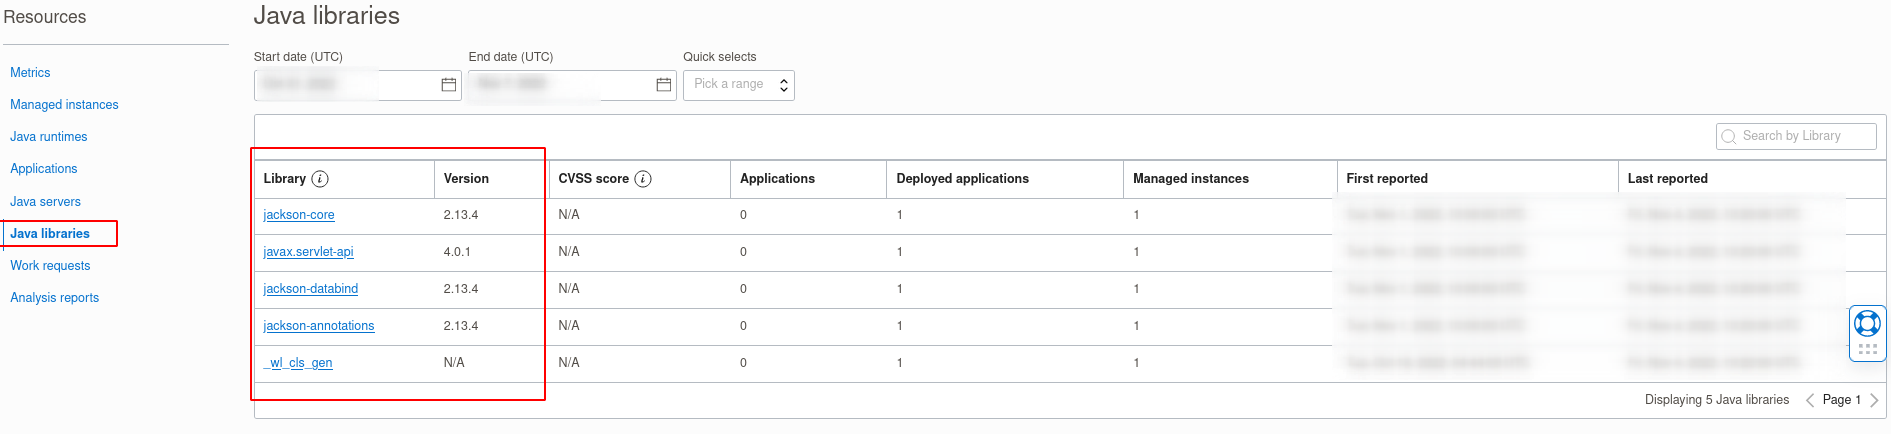
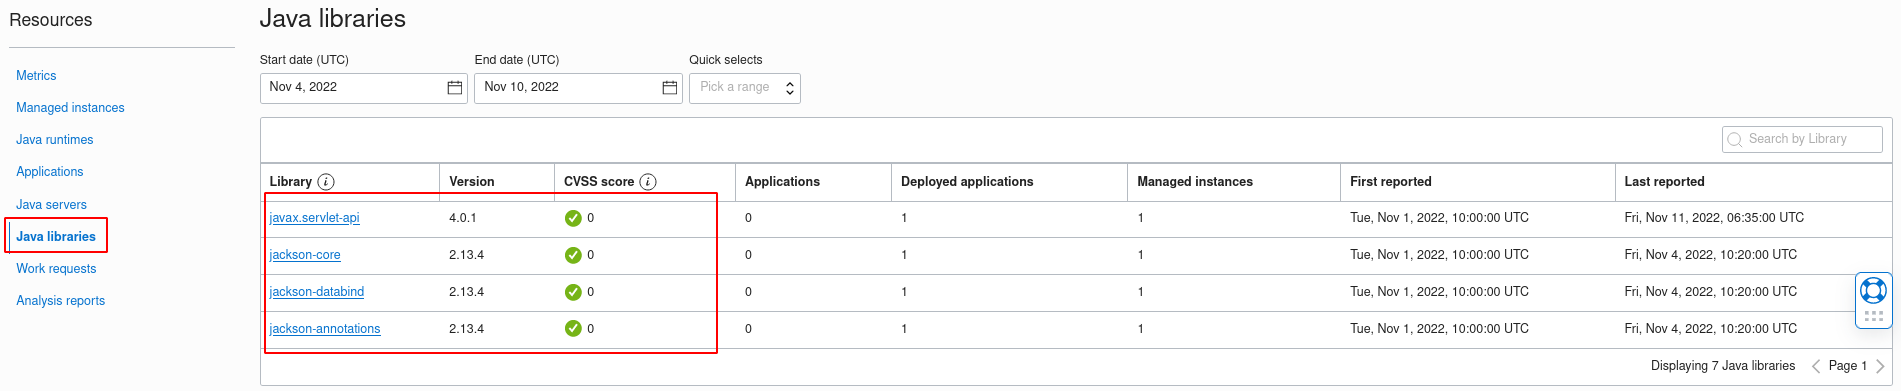
Content Updated for Java Servers and Libraries.

diff --git a/java-management-lifecycle-management/track-java-servers/track-java-servers.md b/java-management-lifecycle-management/track-java-servers/track-java-servers.md
@@ -2,7 +2,7 @@
 
 ## Introduction
 
-Advanced usage tracking allows you to monitor the usage of Java servers in your fleet which includes the applications deployed on the Java server, and the managed server and managed instances on which an application is deployed. 
+Advanced usage tracking allows you to monitor the usage of Java servers in your fleet which includes the applications deployed on the Java server, the managed server and managed instances on which an application is deployed. 
 
 This lab walks you through the steps to track Java servers in a managed instance.
 
@@ -12,26 +12,26 @@ Estimated Time: 40 minutes
 
 In this lab, you will:
 
-* Install WebLogic Java Server in a managed instance.
-* Deploy a sample Java Web Application in WebLogic Server.
-* Scan running Java Server with deployed Java Application in a managed instance.
-* Verify Java Server scanning.
+* Install WebLogic server in a managed instance.
+* Deploy a sample Java Web Application in WebLogic server.
+* Scan running Java server with deployed Java Web Application in a managed instance.
+* Verify Java server scanning result.
 
 ### Prerequisites
 
 * You have signed up for an account with Oracle Cloud Infrastructure and have received your sign-in credentials.
 * You are using an Oracle Linux image on your Managed Instance for this workshop.
 * Access to the cloud environment and resources configured in the previous labs.
-* Familiarity with configuration of WebLogic Server.
+* Familiarity with configuration of WebLogic server.
 
 ## Task 1: Ensure WebLogic Server is installed and configured. 
 
-1. If you do not have WebLogic server installed and configured in the managed instance, please follow steps:
+1. If you do not have WebLogic server installed and configured in your managed instance, please refer to following steps:
 * [Download WebLogic Server](https://www.oracle.com/middleware/technologies/weblogic-server-installers-downloads.html)
 * [Install WebLogic Server](https://docs.oracle.com/en/middleware/standalone/weblogic-server/14.1.1.0/wlsig/installing-oracle-weblogic-server-and-coherence-software.html#GUID-E4241C14-42D3-4053-8F83-C748E059607A)
 * [Create and Configure WebLogic Domain](https://docs.oracle.com/en/middleware/standalone/weblogic-server/14.1.1.0/wlsig/creating-and-configuring-weblogic-domain.html#GUID-4AECC00D-782D-4E77-85DF-F74DD61391B4)
 
-2. Take note of the **path of the created domain** which will be used for deployment of Java Web Application in Task 3.
+2. Take note of the **path of the created domain**  for installed WebLogic server which will be used for deployment of Java Web Application in following **Task 3**.
 
 ## Task 2: Create Sample Java Web Application
 
@@ -44,17 +44,17 @@ In this lab, you will:
 2. Verify the installation by checking the Maven version.
 ```
     <copy>
-    mvn –version
+    mvn –v
     </copy>
 ```  
 3. Create sample Java Web Application by running.
-* If you are not already in the home directory of your compute instance, navigate there by running this.
+* If you are not already in the home directory of your compute instance, navigate there by running.
 ```
     <copy>
     cd ~
     </copy>
 ```
-* Create sample Java Web Application by running.
+* Create sample Java Web Application named **webSampleApp** by running.
 ```
     <copy>
     mvn archetype:generate -DgroupId=com.sample -DartifactId=webSampleApp -DarchetypeArtifactId=maven-archetype-webapp -DinteractiveMode=false
@@ -111,13 +111,15 @@ In this lab, you will:
 	</project>
 </copy>
 ```
+* To save the file, type **CTRL+x**. Before exiting, nano will ask you if you wish to save the file: Type **y** and **Enter** to save and exit.
+
 * Edit web.xml file by running.
 ```
     <copy>
     nano src/main/webapp/WEB-INF/web.xml 
     </copy>
 ```
-* Replace the content of web.xml as following.
+* Replace the content of web.xml as following and save the file.
 ```xml
 <copy>
 	<?xml version="1.0" encoding="ISO-8859-1"?>
@@ -138,14 +140,14 @@ In this lab, you will:
 	</web-app>
 </copy>
 ```
+
 4. Create sample Java servlet class by running.
-* Create sample Java servlet class by running.
 ```
     <copy>
     sudo mkdir -p ./src/main/java/com/sample && sudo nano ./src/main/java/com/sample/GreetingServlet.java
     </copy>
 ```
-* Paste the content as following.
+* Paste the following text in the Java file and save the file.
 ```java
   <copy>
     package com.sample;
@@ -200,28 +202,29 @@ In this lab, you will:
 ![image of build Java Web Application](images/start-weblogic-server.png)
 
 ## Task 4: Initialize a Java server scan.
-Now we have running WebLogic server with deployed sample Java Web Application on the managed instance, let's initialize the Java server scan.
+
+Now we have the running WebLogic server with deployed sample Java Web Application on the managed instance, let's initialize a Java server scan.
 1. In **Java Management** page, click **Scan for Java servers**.
 ![image of scan java servers](images/scan-java-servers.png)
 
 2. In the same **Java Management** page, under **Resource**,select **Work Request**.You should see the Scan for Java servers Work Request you submitted in step 1.
 ![image of work request for java servers scan](images/work-request-of-servers-scan-in-progress.png)
 
-3. If your request was successful, you should see that the Status of the request is marked as Succeeded and Completed without errors.  
-It may take around 10 minutes to be completed.
+3. If your request is successful, you should see that the Status of the request is marked as Succeeded and Completed without errors.  
+It will take around 10 minutes for the request to be completed.
 ![image of detected java servers](images/work-request-of-servers-scan-completed.png)
 
 4. In the same **Java Management** page, under **Resource**, select **Java servers** you should be able to see detected WebLogic server that you installed in the managed instance.
 ![image of work request for java servers scan](images/java-server-detected.png)
 
-5. Click **WebLogic Server** under **Java servers**, You should be able to see the WebSampleApp that we deployed in the previous step.
+5. Click **WebLogic Server** under **Java servers**, You should be able to see the WebSampleApp that we deployed in the previous step with its type indicated.
 ![image of detail of deployed java web application](images/sample-java-web-application-detected.png)
 
-## Task 5: (Optional)Try your own to track other Java servers with deployed Java WEb Application.
-* In the previous tasks . we have showed how to track a running java server with deployed web application using WebLogic Java server as an example. Not only WebLogic Java servers, tracking of Tomcat and JBoss Java servers are also supported for both standalone and cluster mode.
+## Task 5: (Optional)Try your own to track other Java servers with deployed Applications.
+* In the previous tasks . we have showed the process of how to track a running Java server with deployed Web Application using WebLogic server as an example. Not only WebLogic Java servers, tracking of Tomcat and JBoss servers are also supported for both standalone and cluster mode.
 ![image of detail of deployed java web application](images/java-servers-other.png)
 ![image of detail of deployed java web application](images/java-web-applications-other.png)
-* Setting up of Java application servers including configuring cluster mode is beyond the scope this live labs. You may wish to deploy your own Java Applications using above mentioned Java servers and scan it using our features.
+* Setting up of Java application servers including configuring cluster mode is beyond the scope of this workshop. You may wish to deploy your own Java Applications using above mentioned Java servers on your own and scan it using our features.
 
 
  You may now **proceed to the next lab.**
@@ -235,4 +238,4 @@ It may take around 10 minutes to be completed.
 ## Acknowledgements
 
 * **Author** - Youcheng Li, Java Management Service
-* **Last Updated By** - Youcheng Li, September 2022
+* **Last Updated By** - Youcheng Li, November 2022

diff --git a/java-management-lifecycle-management/detect-java-libraries/detect-java-libraries.md b/java-management-lifecycle-management/detect-java-libraries/detect-java-libraries.md
@@ -2,7 +2,7 @@
 
 ## Introduction
 
-Advanced usage tracking allows you monitor the usage of **Java libraries** in your fleet.
+Advanced usage tracking allows you view the list of **Java libraries** associated with the deployed Java Applications in the selected fleet.
 This lab walks you through the steps to detect **Java libraries** in your fleet.
 
 Estimated Time: 30 minutes
@@ -11,9 +11,8 @@ Estimated Time: 30 minutes
 
 In this lab, you will:
 
-* Detect Java libraries for deployed Java Web Application on a running Java Server.
-* Detect Java libraries for deployed Java SE application.
-* Verify Java libraries detection.
+* Detect Java libraries for deployed Java Web Application on a running Java Server and Java SE application on a managed instance.
+* Verify Java libraries detection result.
 
 
 ### Prerequisites
@@ -24,22 +23,34 @@ In this lab, you will:
 
 ## Task 1: Detect Java libraries for deployed Java Web Application.
 
-1. In lab 4, we have set up the running WebLogic server with sample java web application. Please ensure that WebLogic server is still running.
-* You may want to refer to Lab 4, Task 3 to restart your server if necessary.
+1. In **lab 4**, we have set up the running WebLogic server with sample Java Web Application. Please ensure that WebLogic server is still running.
+* You may refer to **Lab 4 - Task 3** to restart the WebLogic server if necessary.
 
 2. In **Java Management** page, click **Scan for Java libraries**.
  ![image of fleet details page](images/scan-java-libraries.png)
 
-3. In the same **Java Management** page, under **Resource**,select **Work Request**.You should see the Scan for Java libraries Work Request you submitted in step 2.  
-If your request was successful, you should see that the Status of the request is marked as Succeeded and Completed without errors.It may take around 10 minutes to be completed.
+3. In the same **Java Management** page, under **Resource**,select **Work Request**.You should see the Scan for Java libraries Work Request you submitted in step 2. 
 
-  ![image of install java runtime](images/work-request-of-libraries-scan-completed.png.png)
+![image of install java runtime](images/work-request-of-libraries-scan-in-progress.png)
 
-4. In the same **Java Management** page, under **Resource**, select **Java libraries** you should be able to see detected Java libraries that we included in the pom.xml file for the deployed sample Java Web Application.
+4. If your request is successful, you should see that the Status of the request is marked as Succeeded and Completed without errors. It will take around 10 minutes for the request to be completed.
+
+  ![image of install java runtime](images/work-request-of-libraries-scan-completed.png)
+
+5. In the same **Java Management** page, under **Resource**, select **Java libraries** you should see detected Java libraries that we included in the pom.xml file for the deployed sample Java Web Application in lab 4.
 
 ![image of install java runtime](images/java-libraries-web.png)
 
-5. You can stop the WebLogic server now by pressing **ctrl + c**.
+* The Common Vulnerability Scoring System (CVSS) score is the indication of the security vulnerability associated with the Java library which are provided by **National Vulnerability Database**. The score varies over time when we initialize the Java libraries scan and there might be new vulnerabilities affecting your application since JMS refreshes data from the National Vulnerability Database on a weekly basis. To detect new vulnerabilities, we recommend you to perform the scan for Java libraries frequently.  
+
+**Note:** There will have **3** categories of CVSS score for Java libraries in the scan result based on availability as following.
+1. Both Java library and CVSS score are found and available.
+2. CVSS score is not found and **Unknown** will be shown under **CVSS score**.
+3. Java libraries is not found and **N/A** will be shown under **Version**.
+
+![image of install java runtime](images/java-libraries-categories.png)
+
+7. You can stop the WebLogic server now by pressing **ctrl + c**.
 
 ![image of install java runtime](images/stop-weblogic-server.png)
 
@@ -52,7 +63,7 @@ If your request was successful, you should see that the Status of the request is
     cd ~
     </copy>
 ```
-* Create sample Java SE Application by running.
+* Create sample Java SE Application named **GreetingApp** by running.
 ```
     <copy>
     mvn archetype:generate -DgroupId=com.sample -DartifactId=GreetingApp -DarchetypeArtifactId=maven-archetype-quickstart -DinteractiveMode=false
@@ -73,7 +84,7 @@ If your request was successful, you should see that the Status of the request is
 * Replace the content as following.
 ```java
     <copy>
-    package com.sample;
+package com.sample;
 import com.google.gson.Gson;
 import java.text.SimpleDateFormat;
 import java.util.*;
@@ -165,7 +176,7 @@ public class App
         mvn clean package
     </copy>
 ```
-* ou should able to see the output similar as following after successfully build.
+* You should be able to see the output similar as following after successful build.
 ![image of install java runtime](images/build-java-se-app.png)
 4. Run Java SE application by running.
 ```
@@ -174,19 +185,25 @@ public class App
     </copy>
 ```
 ![image of install java runtime](images/run-java-se-app.png)
-## Task 3: Detect Java libraries for running Java SE Application.
 
-1. Follow Task 1, step 2-3 to initialize Java libraries scan.
+## Task 3: Detect Java libraries for Java SE Application.
 
-2. In the same **Java Management** page, under **Resource**, select **Java libraries**,  you should be able to see extra Java libraries named Gson that we included in sample GreetingApp are added to result now.
+1. Follow **Task 1, Step 2-4** to initialize Java libraries scan and it will take around 10 mins for the created work request to be completed.
+
+2. In the **Java Management** page, under **Resource**, select **Java libraries**,  you should be able to see that extra Java library named **gson** that we included in sample Java SE application are added to result now.
 ![image of install java runtime](images/java-library-gson.png)
 
-3. Click the Gson library , you should able to see details of sample Java SE application that we deployed in the previous step
+3. Click the **gson** library, you should see details of libraries and list of applications that is using the selected libraries.
 
-![image of install java runtime](images/build-java-se-app.png)
+![image of install java runtime](images/java-se-app-info.png)
  
-4. You can stop the Java SE application by pressing **ctrl + c**.  
+4. In the same page, click **GreetingApp-1.0-SNAPSHOT-jar-with-dependencies.jar**, You should see the details of Java SE Application that we run in the previous steps.
 
+![image of install java runtime](images/java-se-app-detail.png)
+
+**Note:** Tracking of Java Application that is running with **Non-Oracle JDKs** in the fleet is also supported.
+
+5. You can stop the Java SE application by pressing **CTRL + c**.  
 
  You may now **proceed to the next lab.**
 
@@ -202,5 +219,5 @@ public class App
 
 ## Acknowledgements
 
-* **Author** - Yixin Wei, Java Management Service
-* **Last Updated By** - Yixin Wei, September 2022
+* **Author** - Youcheng Li, Java Management Service
+* **Last Updated By** - Youcheng Li, November 2022
